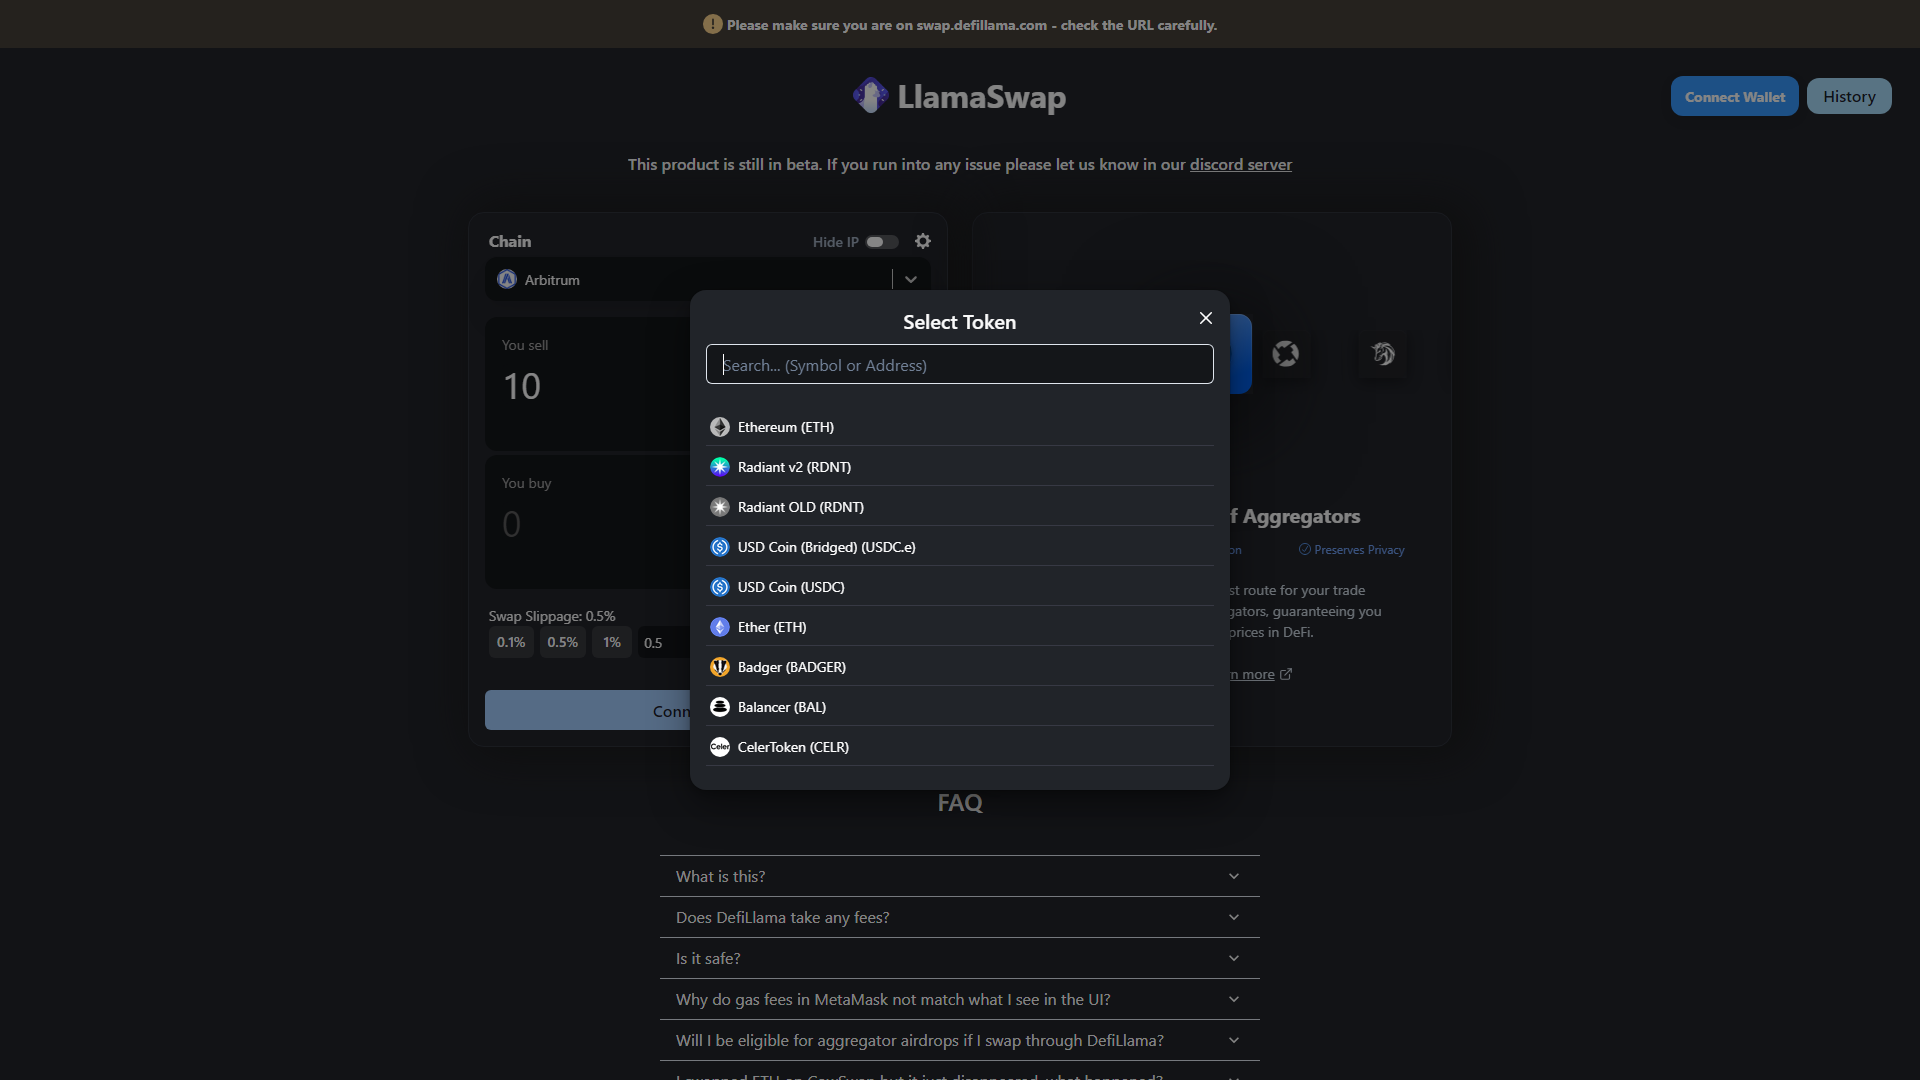
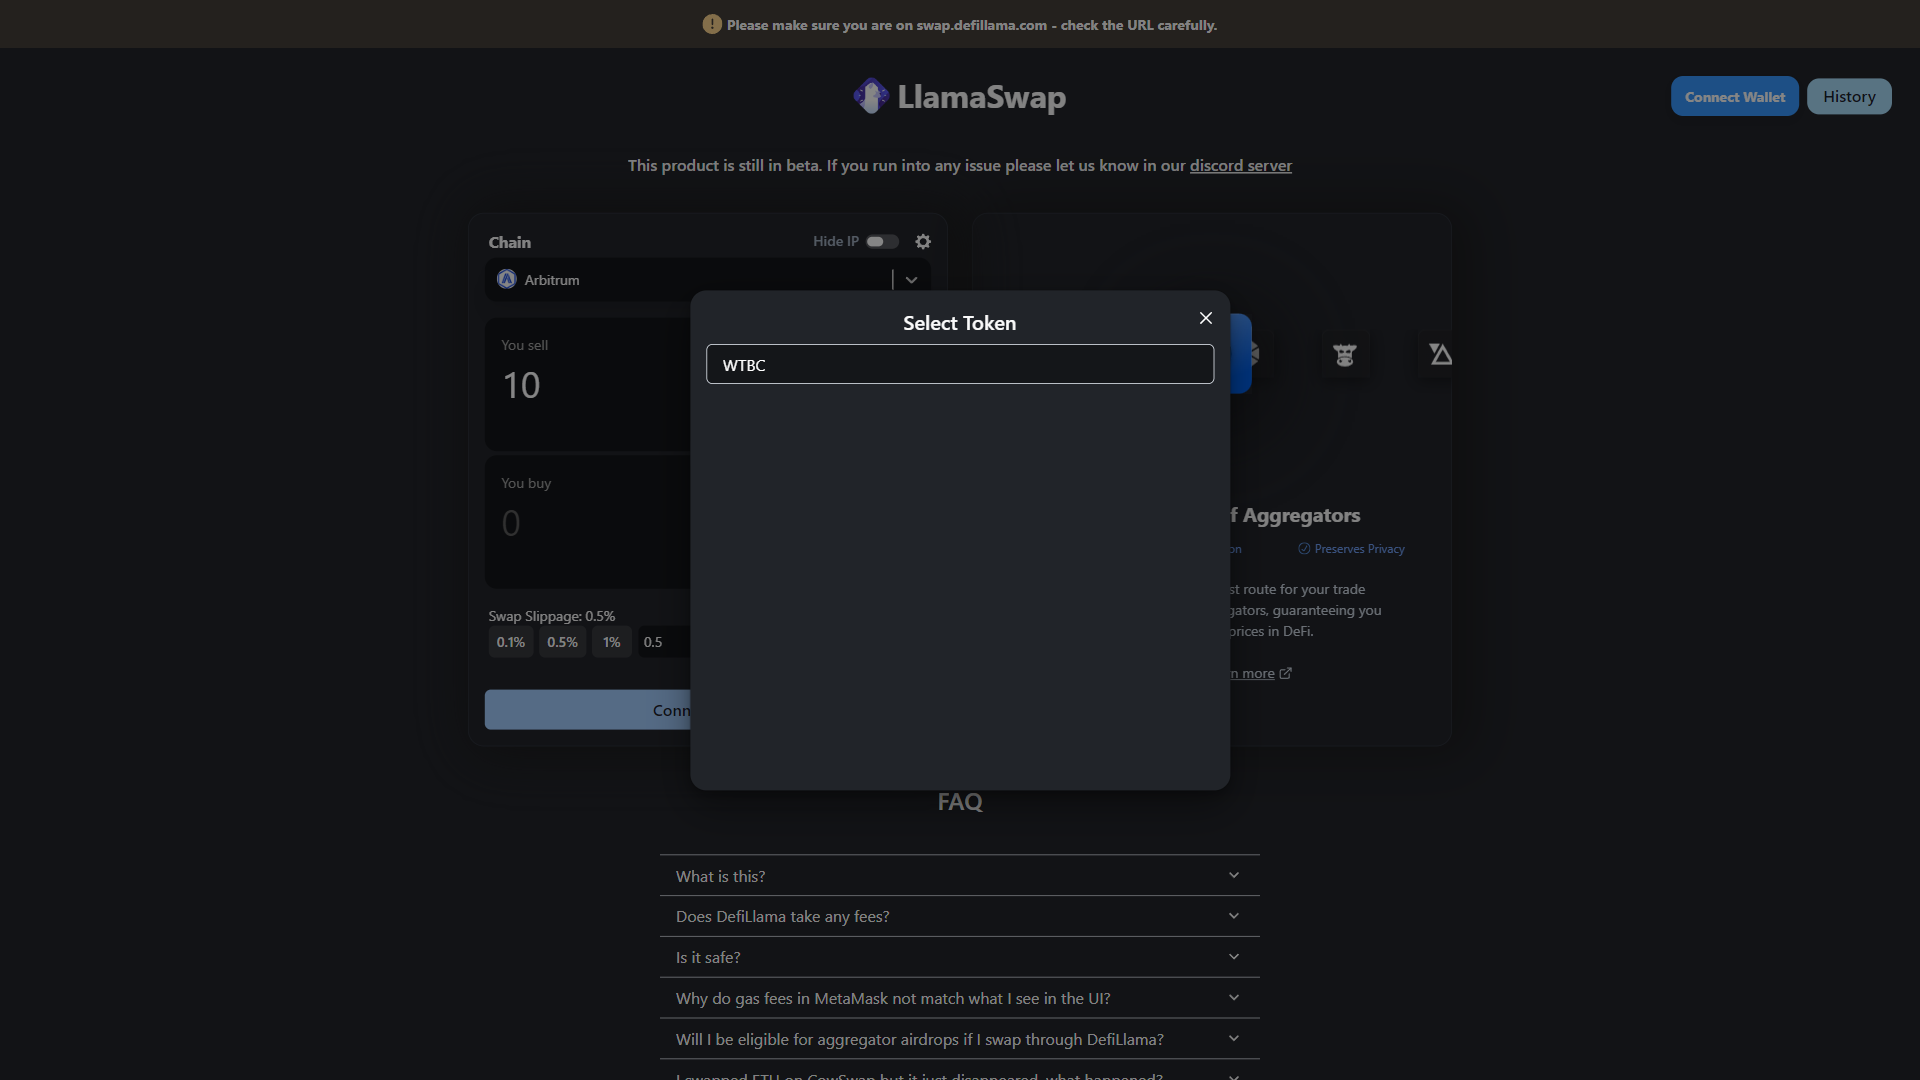
add modal input code

diff --git a/clickButtonByXpath.js b/clickButtonByXpath.js
@@ -4,7 +4,7 @@ async function clickButtonByXPath(page, buttonXPath, inputValue, optionValue) {
   try {
     await page.waitForXPath(buttonXPath);
     const buttonElement = await page.$x(buttonXPath);
-    if (buttonElement.length > 0) {
+    if (buttonElement.length > 0) {     //if components are being selected by nth child, dont use .length, if not use  .length to
       await buttonElement[0].click();
       console.log(`Clicked on the button.`);
       await page.screenshot({ path: 'button.png' });
@@ -15,13 +15,36 @@ async function clickButtonByXPath(page, buttonXPath, inputValue, optionValue) {
       if (modalExists) {
         console.log('Modal element exists.');
         await page.screenshot({ path: 'modalvanne.png' });
-        await page.waitForSelector(modalSelector);
+        await page.waitForSelector(modalSelector,  { visible: true } );
         const modalElement = await page.$(modalSelector);
         if (modalElement) {
-            await page.waitForTimeout(3000);
+          //  await page.waitForNavigation();
+          page.waitForSelector('input', { timeout : '3000' } ); 
+          const inputElement = await modalElement.$('input');
+            if (inputElement) {
+                await inputElement.focus();
+                console.log(`Element focused.`);
+                await inputElement.type(optionValue);
+                await page.screenshot({ path: 'typemodal.png' });
+                console.log('Written');
+                await inputElement.press('Enter');
+                await page.screenshot({ path: 'entermodal.png' });
+                console.log(`Selected "${optionValue}" from the dropdown.`);
+                await page.screenshot({ path: `${optionValue}.png` });
+            } else {
+                console.error(`Input element not found within the modal.`);
+            }
+            } else {
+            console.error(`Modal element not found for selector: ${modalSelector}`);
+            }
+          
+        //await elements[0].click();
+       {/*} await page.waitForNavigation();
+        console.log("reached input list");
           const inputElement = await modalElement.$(inputValue);
           await page.screenshot({ path: 'modals.png' });
           if (inputElement.length > 0) {
+          //if (inputElement.length > 0) {
             await page.screenshot({ path: 'openmodal.png' });
             await inputElement[0].focus();
             console.log(`Element focused.`);
@@ -34,13 +57,13 @@ async function clickButtonByXPath(page, buttonXPath, inputValue, optionValue) {
             await page.screenshot({ path: `${optionValue}.png` });
           } else {
             console.error(`Input element not found for XPath: ${inputValue}`);
-          }
+          } 
         } else {
             console.error(`Modal element not found for selector: ${modalSelector}`);
-        }
+        } */}
       } else {
         console.error(`Modal element does not exist.`);
-      }
+      } 
     } else {
         console.error(`Button element not found for XPath: ${buttonXPath}`);
       //throw new Error(`Button element not found for XPath: ${buttonXPath}`);

diff --git a/index.js b/index.js
@@ -1,43 +1,12 @@
+const { selectOptionFromDropdown } = require('./selectChainOption')
 const { clickButtonByXPath } = require('./clickButtonByXpath');
+
 const puppeteer = require('puppeteer');
-
-async function selectOptionFromDropdown(page, dropdownClass, optionValue) {
-  const parentDiv = await page.$(dropdownClass);
-  if (parentDiv) {
-    const inputElement = await parentDiv.$('input');
-    if (inputElement) {
-      await inputElement.focus();
-      await inputElement.type(optionValue);
-      await inputElement.press('Enter');
-      console.log(`Selected "${optionValue}" from the dropdown.`);
-      await page.screenshot({ path: `${optionValue}.png` });
-    } else {
-      console.error('Input field not found within the parent div.');
-    }
-  } else {
-    console.error(`Parent div with class ${dropdownClass} not found.`);
-  }
-}  
-
-// async function selectBOptionFromDropdown(page, dropdownClass, optionValue) {
-//   const parentDiv = await page.$(dropdownClass);
-//   if (parentDiv) {
-//     const buttonElement = await parentDiv.$('button');
-//     if (buttonElement) {
-//       await buttonElement.click();
-//       console.log(`Clicked on the button.`);
-//       await page.screenshot({ path: 'button.png' });
-//     } else {
-//       console.error('Button element not found within the parent div.');
-//     }
-//   } else {
-//     console.error(`Parent div with class ${dropdownClass} not found.`);
-//   }
-// }
 
 (async () => {
   try {
     const browser = await puppeteer.launch({
+      headless : "new" ,
       defaultViewport: {
         width: 1920,
         height: 1080,
@@ -68,7 +37,7 @@ async function selectOptionFromDropdown(page, dropdownClass, optionValue) {
     await clickButtonByXPath(page, buttonXPath1, inputValue, 'WTBC');
     await clickButtonByXPath(page, buttonXPath2, inputValue, 'USDC');
     await page.type(".css-79elbk",'12'); // being written to eth inte saanam, ithum xpath vekkendi avrum
-// cater to ur usecase
+// cater to my usecase
 // await page.waitForNavigation();
 
 // await page.waitForSelector("#product");

diff --git a/selectChainOption.js b/selectChainOption.js
@@ -1,0 +1,19 @@
+async function selectOptionFromDropdown(page, dropdownClass, optionValue) {
+    const parentDiv = await page.$(dropdownClass);
+    if (parentDiv) {
+      const inputElement = await parentDiv.$('input');
+      if (inputElement) {
+        await inputElement.focus();
+        await inputElement.type(optionValue);
+        await inputElement.press('Enter');
+        console.log(`Selected "${optionValue}" from the dropdown.`);
+        await page.screenshot({ path: `${optionValue}.png` });
+      } else {
+        console.error('Input field not found within the parent div.');
+      }
+    } else {
+      console.error(`Parent div with class ${dropdownClass} not found.`);
+    }
+  }  
+
+  module.exports = { selectOptionFromDropdown };
